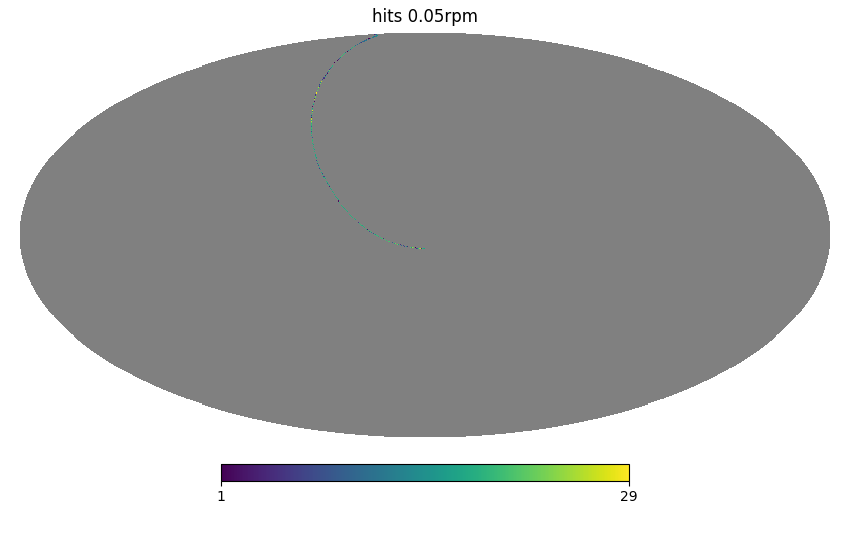
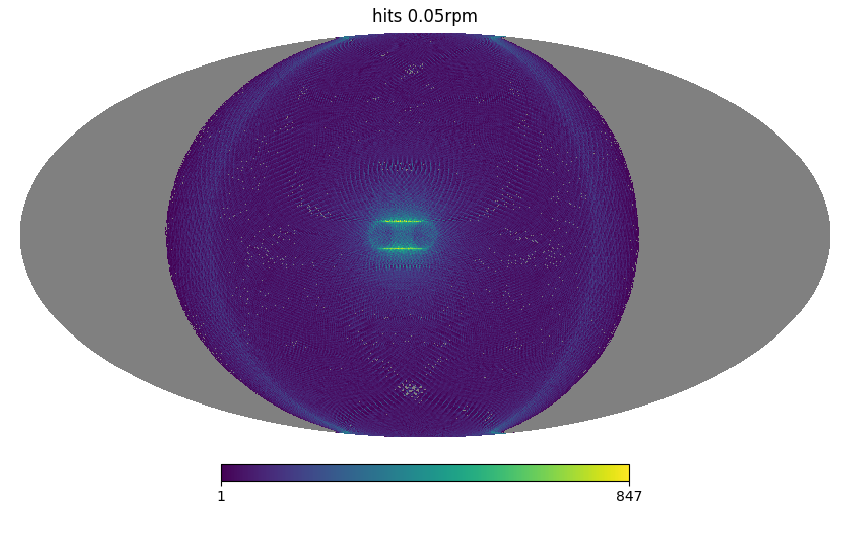
fixed typo

diff --git a/validation/check_pointings.py b/validation/check_pointings.py
@@ -79,9 +79,9 @@ plt.clf()
 
 nside = 256
 
-pix_005_450 = hp.ang2pix(nside,theta_005_450[:nsamp],phi_005_450[:nsamp])
-pix_030_375 = hp.ang2pix(nside,theta_030_375[:nsamp],phi_030_375[:nsamp])
-pix_100_260 = hp.ang2pix(nside,theta_100_260[:nsamp],phi_100_260[:nsamp])
+pix_005_450 = hp.ang2pix(nside,theta_005_450,phi_005_450)
+pix_030_375 = hp.ang2pix(nside,theta_030_375,phi_030_375)
+pix_100_260 = hp.ang2pix(nside,theta_100_260,phi_100_260)
 
 plt.plot(pix_005_450[:nsamp], label='0.05rpm and 45.0deg')
 plt.plot(pix_030_375[:nsamp], label='0.30rpm and 37.5deg')
